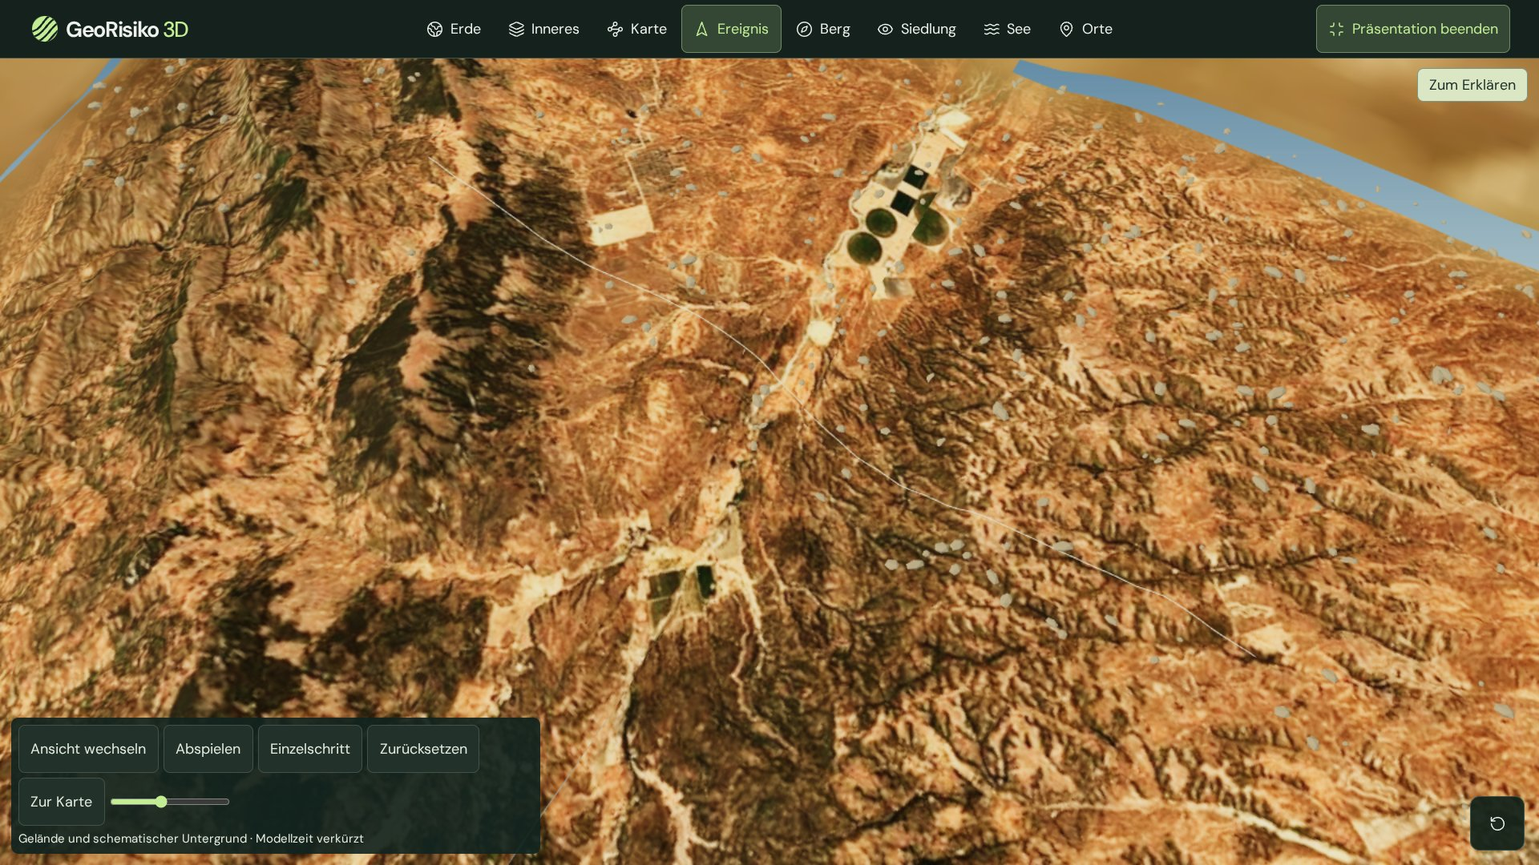
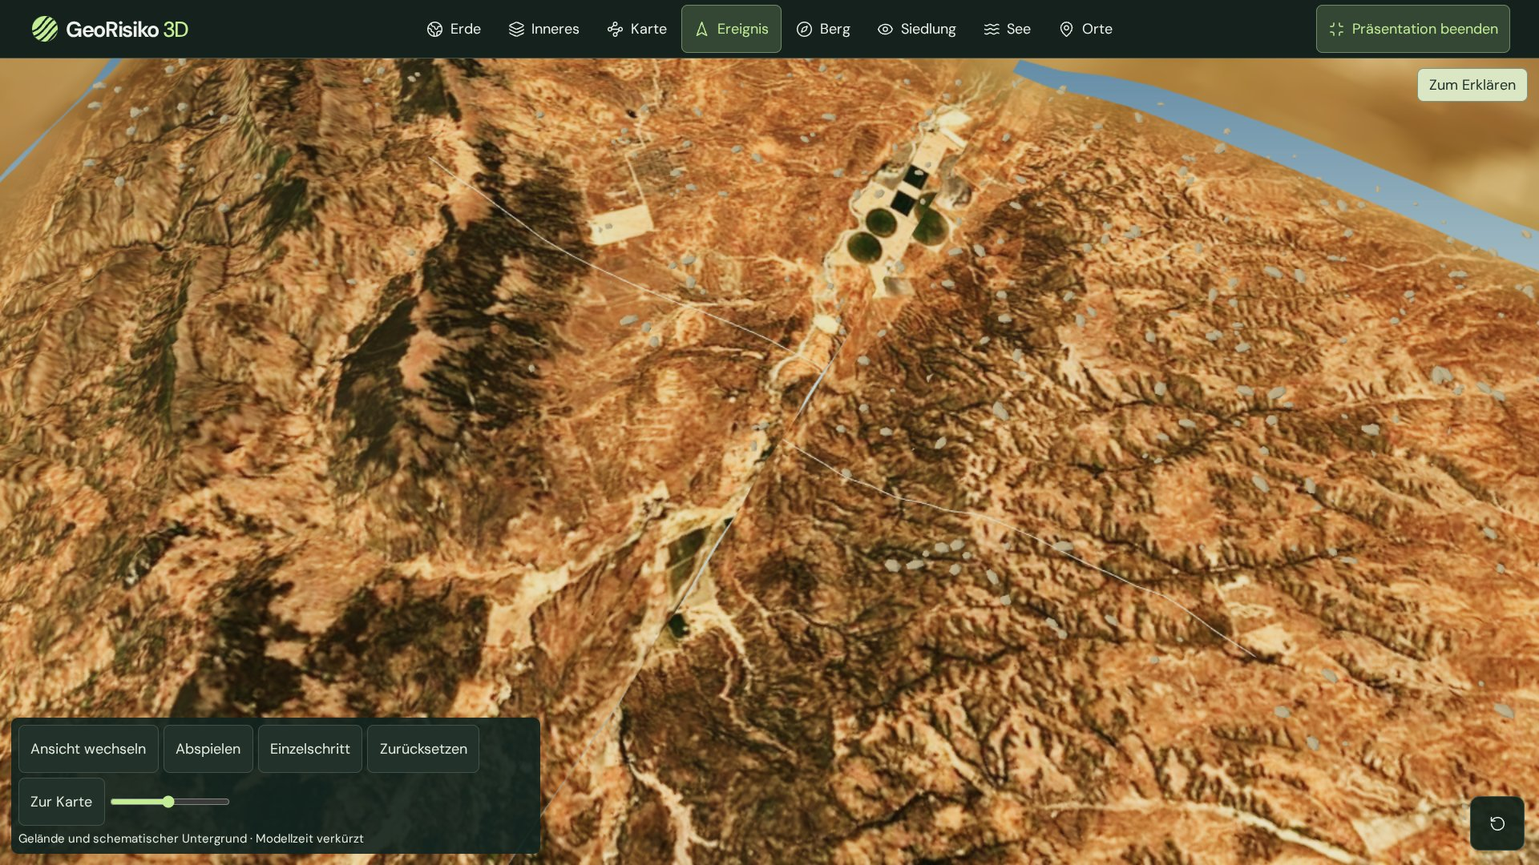
Bruchphase am sichtbaren Wegversatz prüfen und ausgelieferte Ressourcen vergleichen

diff --git a/src/observatory/panel.ts b/src/observatory/panel.ts
@@ -143,13 +143,13 @@ export class Observatory {
     }else if(this.mode==="regional"&&this.region){
       const r=this.region,sp=r.spec;
       this.side.innerHTML='<p class="g-kicker">'+(sp.site?topicNames[sp.theme]:sp.theme==='forces'||sp.theme==='lithosphere'?'Schematisch vergrößerter Schnitt':'Vereinfachtes Modell dieser Grenzart')+'</p><h1>'+sp.name+'</h1><div class="g-stack">'+(sp.site?selectRegions(sp.theme,sp.site):'')+
-        (sp.geology?'<small>'+names[sp.geology.left]+' · '+names[sp.geology.right]+' · '+processNames[sp.geology.model]+'</small>':'')+'<small id="g-model-note">'+(sp.site?'Höhen aus Geodaten · Untergrund schematisch':(sp.coastLesson?'Schematischer Küstenraum · helle Linie: ursprüngliches Ufer':sp.theme==='forces'||sp.theme==='lithosphere'?'Schematische Größen und Tiefen':'Lage und Grenzrichtung aus PB2002 · Untergrund schematisch'))+' · Höhen überhöht, Modellzeit verkürzt</small>'+
+        (sp.geology?'<small>'+names[sp.geology.left]+' · '+names[sp.geology.right]+' · '+processNames[sp.geology.model]+'</small>':'')+'<small id="g-model-note">'+(sp.site?(sp.site==='san'&&sp.theme==='earthquake'?'Gelände aus Geodaten · Vergleichsweg und Untergrund schematisch':'Höhen aus Geodaten · Untergrund schematisch'):(sp.coastLesson?'Schematischer Küstenraum · helle Linie: ursprüngliches Ufer':sp.theme==='forces'||sp.theme==='lithosphere'?'Schematische Größen und Tiefen':'Lage und Grenzrichtung aus PB2002 · Untergrund schematisch'))+' · Höhen überhöht, Modellzeit verkürzt</small>'+
         (!r.ready?'<p role="status">'+(r.error||'Gelände wird geladen …')+'</p>':
         button("g-cut",r.cut?"An die Oberfläche":"Untergrund öffnen")+'<label>Ansicht<select id="g-view">'+opts({land:"Landschaft",...(sp.geology?{overhead:"Plattenbewegung von oben"}:{}),cut:"Geologischer Schnitt",...(["earthquake","process"].includes(sp.theme)&&sp.process!=="complex"?{fault:"Störungsdetail"}:{}),...(sp.theme==="earthquake"?{focus:"Erdbebenherd",waves:"Wellenausbreitung"}:{}),...(sp.theme==="volcano"?{vent:"Vulkan und Ausbruch"}:{}),...(r.water?{water:"Entstehung am Meeresboden",ocean:"Ausbreitung im offenen Meer",coast:"Küstenwirkung · Modell"}:{})},r.view)+'</select></label>'+
         (sp.theme==='lithosphere'?'':'<label class="g-range"><span id="g-phase"></span><input id="g-progress" type="range" min="0" max="1" step=".001" value="'+r.progress+'"></label>'+
         '<div class="g-buttons">'+button("g-play","Abspielen")+button("g-step","Einzelschritt")+button("g-reset","Zurücksetzen")+'</div>')+
         '<label><input type="checkbox" id="g-names" '+(r.names?"checked":"")+'> Namen zeigen</label>'+
-        (sp.theme==="earthquake"&&(sp.comparison||sp.event||sp.coastLesson)?'<label>Meeresereignisse vergleichen<select id="g-sea">'+opts({vertical:"B · Überschiebung in Japan",flat:"A · Untermeerischer Seitenversatz",buried:"C · Tiefer Bruch ohne starke Bodenhebung"},sp.event==="buried"?"buried":r.vertical?"vertical":"flat")+'</select></label>':'')+
+        (sp.theme==="earthquake"&&(sp.comparison||sp.event||sp.coastLesson)?'<label>Meeresereignisse vergleichen<select id="g-sea">'+opts({vertical:sp.coastLesson?"B · Hebung im Küstenmodell":"B · Überschiebung in Japan",flat:"A · Untermeerischer Seitenversatz",buried:"C · Tiefer Bruch ohne starke Bodenhebung"},sp.event==="buried"?"buried":r.vertical?"vertical":"flat")+'</select></label>':'')+
         (sp.geology?'<label><input type="checkbox" id="g-vectors" '+(r.vectors?"checked":"")+'> Plattenbewegung zeigen</label>'+(r.vectors?'<small>Gold · gesamte Relativbewegung der linken gegenüber der rechten Platte. Türkis · längs der Grenze. Violett · quer zur Grenze. PB2002.</small>':''):'')+
         this.extraControls(r)+(sp.site==="japan"&&!sp.arcTransect?depthSection():"")+'<div id="g-object" aria-live="polite"></div>'+
         '<details><summary>Modell steuern</summary><label><input type="checkbox" id="g-phases" '+(r.phasesShown?"checked":"")+'> Phasen benennen</label><label><input type="checkbox" id="g-slow" '+(r.slow?"checked":"")+'> Zeitlupe</label><label><input type="checkbox" id="g-stress" '+(r.stress?"checked":"")+'> Spannung im Modell</label></details>'+
@@ -178,7 +178,7 @@ export class Observatory {
     r.update(dt);this.world.gl.render(r.scene,r.camera);
     const phase=this.phaseText(r),play=$("g-play");
     if(play){play.textContent=r.playing?"Pause":"Abspielen";$("g-phase").textContent=r.phasesShown?phase:"Modellzeit";if(document.activeElement!==$("g-progress"))$<HTMLInputElement>("g-progress").value=String(r.progress);}
-    const stage=$<HTMLSelectElement>("g-stage");if(stage&&document.activeElement!==stage){stage.value=["0",".30",".42",".53","1"].reduce((a,b)=>Math.abs(+a-r.progress)<Math.abs(+b-r.progress)?a:b);}
+    const stage=$<HTMLSelectElement>("g-stage");if(stage&&document.activeElement!==stage){stage.value=["0",".30",".49",".53","1"].reduce((a,b)=>Math.abs(+a-r.progress)<Math.abs(+b-r.progress)?a:b);}
     this.updateLabels(r);return true;
   }
   private regionText(g:ReturnType<typeof geology>){
@@ -239,7 +239,7 @@ export class Observatory {
   async preset(i:number){
     if(i<2){await this.openMap();this.maps.events.visible=true;this.maps.boundaries.visible=i===1;this.maps.depth=false;this.maps.recolor();}
     else{await this.openRegion(reference(i<6?"san":"japan","earthquake"));const r=this.region;if(!r?.ready)throw Error();
-      r.cameraView(i<5?"overhead":i===5?"waves":i===6?"cut":"water");r.progress=[0,0,0,.30,.48,.53,0,.48][i];r.stress=i===3;}
+      r.cameraView(i<5?"overhead":i===5?"waves":i===6?"cut":"water");r.progress=[0,0,0,.30,.49,.53,0,.48][i];r.stress=i===3;}
     this.draw();
   }
   diagnostics(){const r=this.region;return {mode:this.mode,purpose:this.mapPurpose,mapLayers:{events:this.maps.events.visible,lines:this.maps.boundaries.visible,depth:this.maps.depth},camera:r?.ready?{position:r.camera.position.toArray(),target:r.orbit.target.toArray()}:undefined,settings:r?fields(r,regionKeys):undefined,view:r?.view,event:r?.spec.event,playing:r?.playing,vectors:r?.vectors,coastLesson:r?.spec.coastLesson,site:r?.spec.site,geology:r?.spec.geology,physics:r?.ready?r.physicalState():undefined,process:r?.spec.process,theme:this.theme,ready:r?.ready??(this.maps.steps.length>0),progress:r?.progress,cut:r?.cut,viewSettled:r?.viewSettled,focus:r?.faultModel?.kind==="unknown"?undefined:r?.focus,epicenter:r?.faultModel?.kind==="unknown"?undefined:r?.epicenter,events:this.maps.rows.length,steps:this.maps.steps.length,selected:this.maps.selectedStep?.[0],...this.timeDiagnostics()};}
@@ -250,7 +250,7 @@ export class Observatory {
     if(r.spec.theme==="process")return r.spec.process==="complex"?"<p>Die genaue Störung ist hier nicht ausreichend bekannt.</p>":button("g-quake-from-process",r.spec.geology?.marine?"Seebeben erklären":"Erdbeben erklären");
     if(r.spec.theme==="earthquake"){
       const phases=r.phasesShown?["Ausgangszustand","Spannungsaufbau","Bruch und Versatz","Wellenausbreitung","Nach dem Beben"]:["Zustand 1","Zustand 2","Zustand 3","Zustand 4","Zustand 5"];
-      const values=["0",".30",".42",".53","1"],closest=values.reduce((a,b)=>Math.abs(+a-r.progress)<Math.abs(+b-r.progress)?a:b);
+      const values=["0",".30",".49",".53","1"],closest=values.reduce((a,b)=>Math.abs(+a-r.progress)<Math.abs(+b-r.progress)?a:b);
       return '<label>Zustand<select id="g-stage">'+values.map((v,i)=>'<option value="'+v+'" '+(v===closest?'selected':'')+'>'+phases[i]+'</option>').join("")+'</select></label><div class="g-buttons">'+button("g-before","Vorher")+button("g-after","Nachher")+'</div>'+
         (r.spec.site==="san"?'<small>Schematischer Vergleichsweg · Versatz überhöht</small>':'')+
         (r.spec.process==="subduction"||r.spec.process==="arc"?'<small>Das Beispiel zeigt einen vereinfachten Bruch am geneigten Kontakt. Die Platten können sich zusätzlich seitlich bewegen.</small>':'')+
@@ -266,7 +266,7 @@ export class Observatory {
     if(r.spec.theme==="magnet")return item("Woher wissen wir das?",explanations.stripe.answer);
     if(r.spec.theme==="volcano")return (r.spec.arcTransect?item("Wo liegt dieser Vulkan?","Zaozan liegt auf der japanischen Hauptinsel. Der Schnitt verläuft von dort zum Japangraben. Der Magmaweg und der Ausbruch sind schematisch."):"")+item("Wie entsteht Schmelze?",r.spec.process==="subduction"?explanations.fluid.answer:"Heißes Mantelgestein steigt auf. Der Druck sinkt und ein Teil des Gesteins schmilzt.")+item("Was ist Magma?",explanations.melt.answer)+item("Was tritt aus?",explanations.lava.answer)+item("Warum verlaufen Ausbrüche verschieden?","Dünnflüssige Schmelze lässt Gas oft leichter entweichen. In zäher Schmelze kann sich Gas stauen. Auch die Gasmenge spielt eine Rolle.")+(r.spec.site==="island"?item("Was ist auf Island besonders?","Island liegt auf einem Rücken. Zusätzlich steigt hier besonders heißes Mantelmaterial unter der Platte auf."):"");
     if(r.spec.theme==="risk")return item("Verwundbarkeit und Resilienz","Anfällige Gebäude können stärker beschädigt werden. Wer Wege und Hilfe vorbereitet, kann die Versorgung schneller wieder aufnehmen. Die grüne Versorgungsstelle zeigt die Wiederherstellung im Modell.")+item("Magnitude und Intensität","Die Magnitude beschreibt die Größe des Bebens an der Quelle. Die Intensität beschreibt, wie stark die Erschütterung an einem Ort erlebt wird. Bei gleichem Beben kann lockerer Boden die Schwingung am selben Standort verstärken.")+item("Was bedeutet Momenten-Magnitude?","Forschende schätzen die Größe des Bebens aus der gebrochenen Fläche, dem Versatz und der Steifigkeit des Gesteins. Das Modell berechnet keinen Zahlenwert.")+item("Wie können wir vorsorgen?","Bauweise, erreichbare Fluchtwege und geübte Abläufe können die Folgen mindern. Warnungen müssen die Menschen auch erreichen.")+item("Was ist abzuwägen?","Umbau kostet Geld. Freie Fluchtwege benötigen Platz. Betroffene Menschen können mitentscheiden, wo gebaut und wie der Wiederaufbau vorbereitet wird.");
-    return r.spec.theme==="earthquake"?item("Was sind P- und S-Wellen?","Goldene Punkte schwingen vor und zurück. Das zeigt die schnellere P-Welle. Türkise Punkte schwingen quer zur Laufrichtung. Diese S-Welle läuft nur durch festes Material.")+item("Was zeigen die zwei Orte?","Der Bruch beginnt im Erdbebenherd. Direkt darüber liegt an der Oberfläche das Epizentrum.")+item("Wann entsteht ein Tsunami?","Wenn sich ein großer Teil des Meeresbodens hebt oder senkt, bewegt er die Wassersäule. Lange Wasserwellen laufen zur Küste und können dort höher werden."):"";}
+    return r.spec.theme==="earthquake"?item("Was sind P- und S-Wellen?","Goldene Punkte schwingen vor und zurück. Das zeigt die schnellere P-Welle. Türkise Punkte schwingen quer zur Laufrichtung. Diese S-Welle läuft nur durch festes Material.")+item("Was zeigen die zwei Orte?","Der Bruch beginnt im Erdbebenherd. Direkt darüber liegt an der Oberfläche das Epizentrum.")+item("Wann entsteht ein Tsunami?","Nicht jedes Seebeben löst einen Tsunami aus. Hebt oder senkt sich ein großer Teil des Meeresbodens, bewegt er die Wassersäule. Lange Wasserwellen laufen zur Küste und können dort höher werden."):"";}
   private async switchEvent(old:RegionalScene,spec:RegionSpec,view:string){
     const {progress,playing,showP,showS,stress,names,phasesShown,slow,detail}=old;
     await this.openRegion(spec);const r=this.region;if(!r?.ready||r.spec!==spec)return;

diff --git a/src/observatory/eruption.ts b/src/observatory/eruption.ts
@@ -11,7 +11,7 @@ function ashMaterial(){
   for(let j=0;j<96;j++)for(let i=0;i<96;i++){const x=i/47.5-1,y=j/47.5-1;
     const n=.58*noise(x*3.4+4,y*3.4+5)+.29*noise(x*8+11,y*8)+.13*noise(x*19,y*19);
     const density=T.MathUtils.smoothstep(1-Math.hypot(x,y)*1.2+(n-.55)*.82,0,.75);
-    const value=72+68*n+16*(1-y),k=4*(j*96+i);
+    const value=67+75*n+12*(1-y)+10*(1-x),k=4*(j*96+i);
     img.data.set([value+5,value+2,value,206*density],k);
   }
   ctx.putImageData(img,0,0);const map=new T.CanvasTexture(canvas);map.colorSpace=T.SRGBColorSpace;
@@ -19,21 +19,24 @@ function ashMaterial(){
 }
 
 function edifice(shield:boolean){
-  const p:number[]=[],indices:number[]=[],rings=13,sectors=64;
+  const p:number[]=[],colors:number[]=[],indices:number[]=[],rings=24,sectors=64;
   for(let j=0;j<=rings;j++)for(let i=0;i<=sectors;i++){
     const a=2*Math.PI*i/sectors,u=j/rings,channel=.08*Math.sin(5*a+.8)+.04*Math.sin(11*a-2*u)+.03*Math.sin(21*a+3*u);
     const radius=u*(shield?1.13:.76)*(1+channel*(.4+.6*u));
     const profile=u<.16?.62+u*1.9:Math.pow((1-u)/.84,shield?1.7:1.15);
     const h=(shield?.54:1.05)*profile*(1+channel*.19);
     p.push(radius*Math.cos(a),h,radius*Math.sin(a));
+    const rubble=.5+.5*Math.sin(13*a+u*5)*Math.cos(7*a-u*11),rim=T.MathUtils.smoothstep(u,.04,.16);
+    const tone=(.50+.31*rim+.14*rubble)*(1+.07*Math.sin(u*39+channel*9));
+    colors.push(tone,tone*(.91+.08*u),tone*(.83+.09*u));
     if(j<rings&&i<sectors){const k=j*(sectors+1)+i,l=k+sectors+1;indices.push(k,k+1,l,k+1,l+1,l);}
   }
-  const g=new T.BufferGeometry();g.setAttribute("position",new T.Float32BufferAttribute(p,3));g.setIndex(indices);g.computeVertexNormals();return g;
+  const g=new T.BufferGeometry();g.setAttribute("position",new T.Float32BufferAttribute(p,3));g.setAttribute("color",new T.Float32BufferAttribute(colors,3));g.setIndex(indices);g.computeVertexNormals();return g;
 }
 export function eruption(r:RegionalScene,x:number,top:number){
   const hotspot=r.spec.process==="hotspot",z=r.spec.arcTransect?0:-.33;const centres:T.Mesh[]=[];
   if(!r.spec.arcTransect){
-  const shape=edifice(hotspot),rock=material(0x726352);rock.side=T.DoubleSide;
+  const shape=edifice(hotspot),rock=material(0x82746a);rock.vertexColors=true;rock.side=T.DoubleSide;
   for(let i=0;i<(hotspot?5:1);i++){
     const m=new T.Mesh(shape,rock);m.userData.explanation={name:"Vulkanbau",answer:"Viele Ausbrüche können einen Vulkan aufbauen. Über der Quelle entsteht ein neuer Vulkan."};
     centres.push(m);r.scene.add(m);
@@ -41,7 +44,19 @@ export function eruption(r:RegionalScene,x:number,top:number){
   }
   const hot=new T.MeshStandardMaterial({color:0xca5728,emissive:0x93270e,emissiveIntensity:.62,roughness:.72});
   const curve=new T.CatmullRomCurve3(r.spec.arcTransect?Array.from({length:17},(_,i)=>{const xx=x+i*.033,zz=z-.08*Math.sin(i*.15);return new T.Vector3(xx,r.height(xx,zz)+.015,zz);}):[new T.Vector3(x,top+(hotspot?.45:.86),z),new T.Vector3(x+.19,top+(hotspot?.46:.93),z),new T.Vector3(x+.48,top+.29,z-.14),new T.Vector3(x+.91,top+.06,z-.08),new T.Vector3(x+1.47,r.height(x+1.47,z-.34)+.04,z-.34)]);
-  const lava=new T.Mesh(new T.TubeGeometry(curve,54,.065,7,false),hot);lava.userData.explanation={name:"Lavafluss",answer:"Gas kann entweichen. Die fließfähige Lava bewegt sich hangabwärts."};r.scene.add(lava);
+  const flow=new T.TubeGeometry(curve,54,.065,7,false),color=new T.Color(),tones=[];
+  for(let i=0;i<=54;i++){
+    const center=curve.getPointAt(i/54);
+    for(let j=0;j<=7;j++){
+      const k=i*8+j,positions=flow.attributes.position;
+      const ry=positions.getY(k)-center.y;positions.setY(k,center.y+ry*.43);
+      const crust=.5+.5*Math.sin(i*.86+j*1.57)*Math.cos(i*.24-j);
+      color.setHex(crust>.64?0x513931:crust>.42?0xad5836:0xffb36c);tones.push(color.r,color.g,color.b);
+    }
+  }
+  flow.setAttribute("color",new T.Float32BufferAttribute(tones,3));flow.computeVertexNormals();
+  hot.color.setHex(0xffffff);hot.vertexColors=true;hot.emissiveIntensity=.23;
+  const lava=new T.Mesh(flow,hot);lava.userData.explanation={name:"Lavafluss",answer:"Gas kann entweichen. Die fließfähige Lava bewegt sich hangabwärts."};r.scene.add(lava);
   const ash=new T.InstancedMesh(new T.PlaneGeometry(2,2),ashMaterial(),64);
   const clasts=new T.InstancedMesh(new T.IcosahedronGeometry(1,0),material(0x564138),26);ash.frustumCulled=clasts.frustumCulled=false;ash.material.addEventListener("dispose",()=>ash.material.map?.dispose());
   ash.userData.explanation={name:"Asche und Gas",answer:"Aufsteigendes Gas dehnt sich aus. Es kann zähe Schmelze zerreißen."};clasts.userData.explanation=ash.userData.explanation;r.scene.add(ash,clasts);

diff --git a/src/observatory/regional.ts b/src/observatory/regional.ts
@@ -208,7 +208,8 @@ export class RegionalScene {
         const water=this.water,cell=Math.round((water.extent(0).shore+6)/water.dx),x0=-6+(cell-1)*water.dx;
         const a=this.height(x0,0),b=this.height(x0+water.dx,0),shore=x0+water.dx*a/(a-b);
         const line=path([new T.Vector3(shore,0,-4.5),new T.Vector3(shore,0,0)],0xefdb9d,"Ursprüngliche Uferlinie");
-        this.scene.add(line);this.onAnimate(t=>{line.position.y=water.sample(shore,t)-water.sample(shore,t,true)+.016;});
+        const foreground=path([new T.Vector3(shore,0,0),new T.Vector3(shore,0,4.5)],0xefdb9d,"Ursprüngliche Uferlinie");
+        this.front.add(foreground);this.scene.add(line);this.onAnimate(t=>{line.position.y=foreground.position.y=water.sample(shore,t)-water.sample(shore,t,true)+.016;});
       }
       let previous=-1;this.onAnimate(t=>{if(t===previous)return;previous=t;const pos=curtain.attributes.position as T.BufferAttribute;
         for(let i=0;i<=120;i++){const x=-6+i*.1,y=this.height(x,0),top=this.waterHeight(x,t),d=f.offset(this.deformed,x,y,0,x>=f.trace?1:-1,t);
@@ -219,6 +220,10 @@ export class RegionalScene {
   waterHeight(x:number,t:number){if(!this.water)return 0;return this.water.sample(x,t);}
   cameraView(view:string){
     this.orbit.minDistance=view==="coast"?2.1:4;
+    if(view==="coast"&&this.spec.coastLesson){
+      this.reframe(false);this.view=view;this.transition=undefined;
+      this.orbit.target.set(-3.05,.012,-.35);this.camera.position.copy(this.orbit.target).add(new T.Vector3(-.45,2.25,1.64));this.orbit.update();return;
+    }
     if(view==="land"||view==="overhead"){
       this.reframe(false);this.view=view;
       if(view==="overhead"){this.transition=undefined;this.orbit.target.set(0,this.height(0,-.35),-.35);this.camera.position.copy(this.orbit.target).add(new T.Vector3(1.7,6.2,3.2));this.orbit.update();}return;
@@ -339,7 +344,7 @@ export class RegionalScene {
       for(let i=0;i<pos.count;i++){const a=2*Math.PI*i/(pos.count-1),radius=Math.min(1.45,(t-onset)*16),y=Math.min(f.top-.02,f.hy+radius*.7*Math.cos(a)),v=f.point(y,-Math.abs(radius*Math.sin(a)));pos.setXYZ(i,v.x,v.y,v.z);}
       pos.needsUpdate=true;this.rupture.frustumCulled=false;
     }
-    if(this.waterColumn){const x=f.hx,h=this.height(x,0),top=this.waterHeight(x,t);this.waterColumn.visible=f.waterEvent&&t>=onset&&t<.67;
+    if(this.waterColumn){const x=f.hx,h=this.height(x,0),top=this.waterHeight(x,t);this.waterColumn.visible=f.waterEvent&&t>=onset&&t<.67&&this.view!=="coast"&&this.view!=="ocean";
       const dy=f.offset(this.deformed,x,h,0,x>=f.trace?1:-1,t).y;this.waterColumn.scale.y=Math.max(.03,top-h-dy);this.waterColumn.position.set(x,h+dy+this.waterColumn.scale.y/2,.065);}
     for(const fn of this.motion)fn(t);this.orbit.update();this.lastCamera.copy(this.camera.position);
   }

diff --git a/src/main.ts b/src/main.ts
@@ -452,12 +452,13 @@ async function boot() {
     nyos:fields(world.nyosLesson,lessonKeys),nyosDetail:world.nyosDetail
   });
   classroomViews(observatory,observation,baseView,async b=>{
+    if(b.mode==="nyos")await world.nyos.load();
     navigate(b.mode);world.setStyle(b.style);
     if(b.mode==="inside"){world.shell.cut=b.shell.cut;world.shell.visible=[...b.shell.visible];world.shell.opacity=[...b.shell.opacity];world.shell.selected=b.shell.selected;world.shell.subdued=b.shell.subdued;world.shell.setComparison(b.shell.comparison);labels=b.labels;released.clear();b.released.forEach(i=>released.add(i));}
     if(b.mode==="place"&&siteCatalog.some(site=>site.id===b.site))world.visit(b.site);
     if(b.mode==="nyos"){if(b.nyos.view==="protection")world.showNyosMeasure(b.nyos.measure);else world.showNyos(b.nyos.view);Object.assign(world.nyosLesson,fields(b.nyos,lessonKeys));world.nyosDetail=b.nyosDetail;}
     if(b.mode==="plates"){
-      await world.loadClassroomAtlas();world.setPlateOptions(b.plates);
+      await world.loadClassroomAtlas(Boolean(b.process.processSite));world.setPlateOptions(b.plates);
       if(b.process.processSite)world.visit(b.process.processSite,!b.process.processDetail);
       else if(b.profile&&world.profiles[b.profile]){world.inspectPlate(b.profile);if(b.pair){world.comparePlates(false);if(world.mosaic){world.mosaic.progress=b.pairTime;world.mosaic.playing=b.pairPlaying;}}}
       Object.assign(world,fields(b.process,["processProgress","processPlaying","processLoop","processSlow","singlePlateName","smallPlateNames"]));

diff --git a/src/world.ts b/src/world.ts
@@ -408,7 +408,7 @@ export class World {
     const distance=R*(Math.sin(angle)/(.72*this.fitSlope())-(1-Math.cos(angle)));
     this.nav.fly({lon,lat,d:clamp(distance,340,19500),tilt:0,bearing:0},true);
   }
-  async loadClassroomAtlas(){await this.loadPlates();}
+  async loadClassroomAtlas(regional:boolean){await this.loadPlates();if(regional)await this.loadRegionalImages();}
   get atlasReady() { return !!this.atlas; }
   get annotationTransition() { return this.processSite ? this.processReveal : this.mosaic?.annotationPose ?? 0; }
   plateLabels() {

diff --git a/scripts/g52/product-check.py b/scripts/g52/product-check.py
@@ -1,0 +1,47 @@
+"""Compare the renderer and local assets in the delivered App-ZIP with its offline HTML."""
+import base64
+import hashlib
+import json
+import posixpath
+import re
+import struct
+import sys
+from pathlib import Path
+from zipfile import ZipFile
+
+app_zip, html_path, output = map(Path,sys.argv[1:])
+html=html_path.read_text()
+embedded=json.loads(re.search(r'<script>const embedded=(.+?), urls=new Map\(\);',html).group(1))
+with ZipFile(app_zip) as z:
+    package=z.read("GeoRisiko.app/Contents/Resources/app.asar")
+header_size=struct.unpack_from("<I",package,4)[0]
+json_size=struct.unpack_from("<I",package,12)[0]
+header=json.loads(package[16:16+json_size])
+dist=header["files"]["dist"]["files"]
+def contents(items,prefix=""):
+    for name,entry in items.items():
+        path=prefix+name
+        if "files" in entry:
+            yield from contents(entry["files"],path+"/")
+        else:
+            start=8+header_size+int(entry["offset"])
+            yield path,package[start:start+entry["size"]]
+files=dict(contents(dist))
+js,=[key for key in files if key.startswith("assets/") and key.endswith(".js")]
+css,=[key for key in files if key.startswith("assets/") and key.endswith(".css")]
+resources={key:value for key,value in files.items() if key.startswith(("assets/","data/","licenses/")) and key not in (js,css)}
+assert set(embedded)==set(resources)
+hashes={}
+for key,raw in resources.items():
+    assert base64.b64decode(embedded[key].split(",",1)[1],validate=True)==raw,key
+    hashes[key]=hashlib.sha256(raw).hexdigest()
+def asset(path):
+    return posixpath.normpath("assets/"+path)
+module=re.sub(r'new URL\("([^"]+)",import.meta.url\).href',lambda m:"window.__geoAsset("+json.dumps(asset(m[1]))+")",files[js].decode())
+module=re.sub(r'</script',lambda _:r'<\/script',module,flags=re.I)
+style=re.sub(r'url\(([^)]+)\)',lambda m:"url("+embedded[asset(m[1].strip("'\""))]+")",files[css].decode())
+assert re.search(r'<script type="module">(.*)</script></body>',html,re.S).group(1)==module
+assert re.search(r'<style>(.*?)</style></head>',html,re.S).group(1)==style
+output.parent.mkdir(parents=True,exist_ok=True)
+output.write_text(json.dumps({"resources":len(resources),"module":js,"stylesheet":css,"sha256":hashes},indent=2)+"\n")
+print(len(resources),"bytegleiche Ressourcen, identischer Renderer und identisches Stylesheet nach Offline-Einbettung")

diff --git a/scripts/g52/report.py b/scripts/g52/report.py
@@ -18,6 +18,8 @@ def evidence(root, out, raw):
         assert movie["frames"] >= 5 and (out/"G52"/(movie["name"]+".mp4")).is_file()
     for name in lesson["pictures"]:
         assert (out/"G52"/(name+".jpg")).stat().st_size > 1000
+    resources=json.loads((out/"G52/Ressourcen.json").read_text())
+    assert resources["resources"]==len(resources["sha256"])>=348
     previous = root/"docs/g52-bildvergleich"
     files = {"Vergleich/G5.1/"+p.relative_to(previous).as_posix():p for p in previous.rglob("*") if p.is_file()}
     pairs = []
@@ -46,6 +48,7 @@ def evidence(root, out, raw):
             "Die aus dem ausgeworfenen DMG kopierte ARM64-App und die eigenständig geöffnete HTML wurden offline bedient. Die Rohdaten stehen in Pruefung.json und G52. Der Vergleich mit G5.1 lässt sich über Bildvergleich.html offline öffnen.","",
             "## Unterrichtsfolge für Klasse 9","","Leitfrage der 45-Minuten-Stunde: Warum bebt die Erde plötzlich, obwohl sich die Erdplatten nur sehr langsam bewegen? Die technische Probe fährt die Bedienfolge komprimiert ab. Eine Beobachtung von Lernenden liegt nicht vor.","",
             "|Schritt|Bedienhandlungen|Zeit bis zum stabilen Bild inkl. Bedienung|Ansicht|","|---|---|---:|---|"]
+    report.insert(5,f"App und HTML enthalten {resources['resources']} bytegleiche eingebettete Ressourcen. Auch Renderer und Stylesheet stimmen nach der für die Einzeldatei nötigen URL-Einbettung überein.")
     for step in lesson["steps"]:
         report.append(f"|{step['label']}|{', '.join(step['actions']) or 'Beobachtung'}|{step['ms']} ms|{step.get('view') or step['mode'] or 'Globus'}|")
     report.extend(["","Kamera, Wiedergabe, Ereigniszeit und offene Antworten sind pro Schritt protokolliert. Die Kameravorgaben wechseln bei ausdrücklicher Ansichts- oder Regionswahl. Die acht Vorbereitungsszenen bleiben frei wählbar.","",
